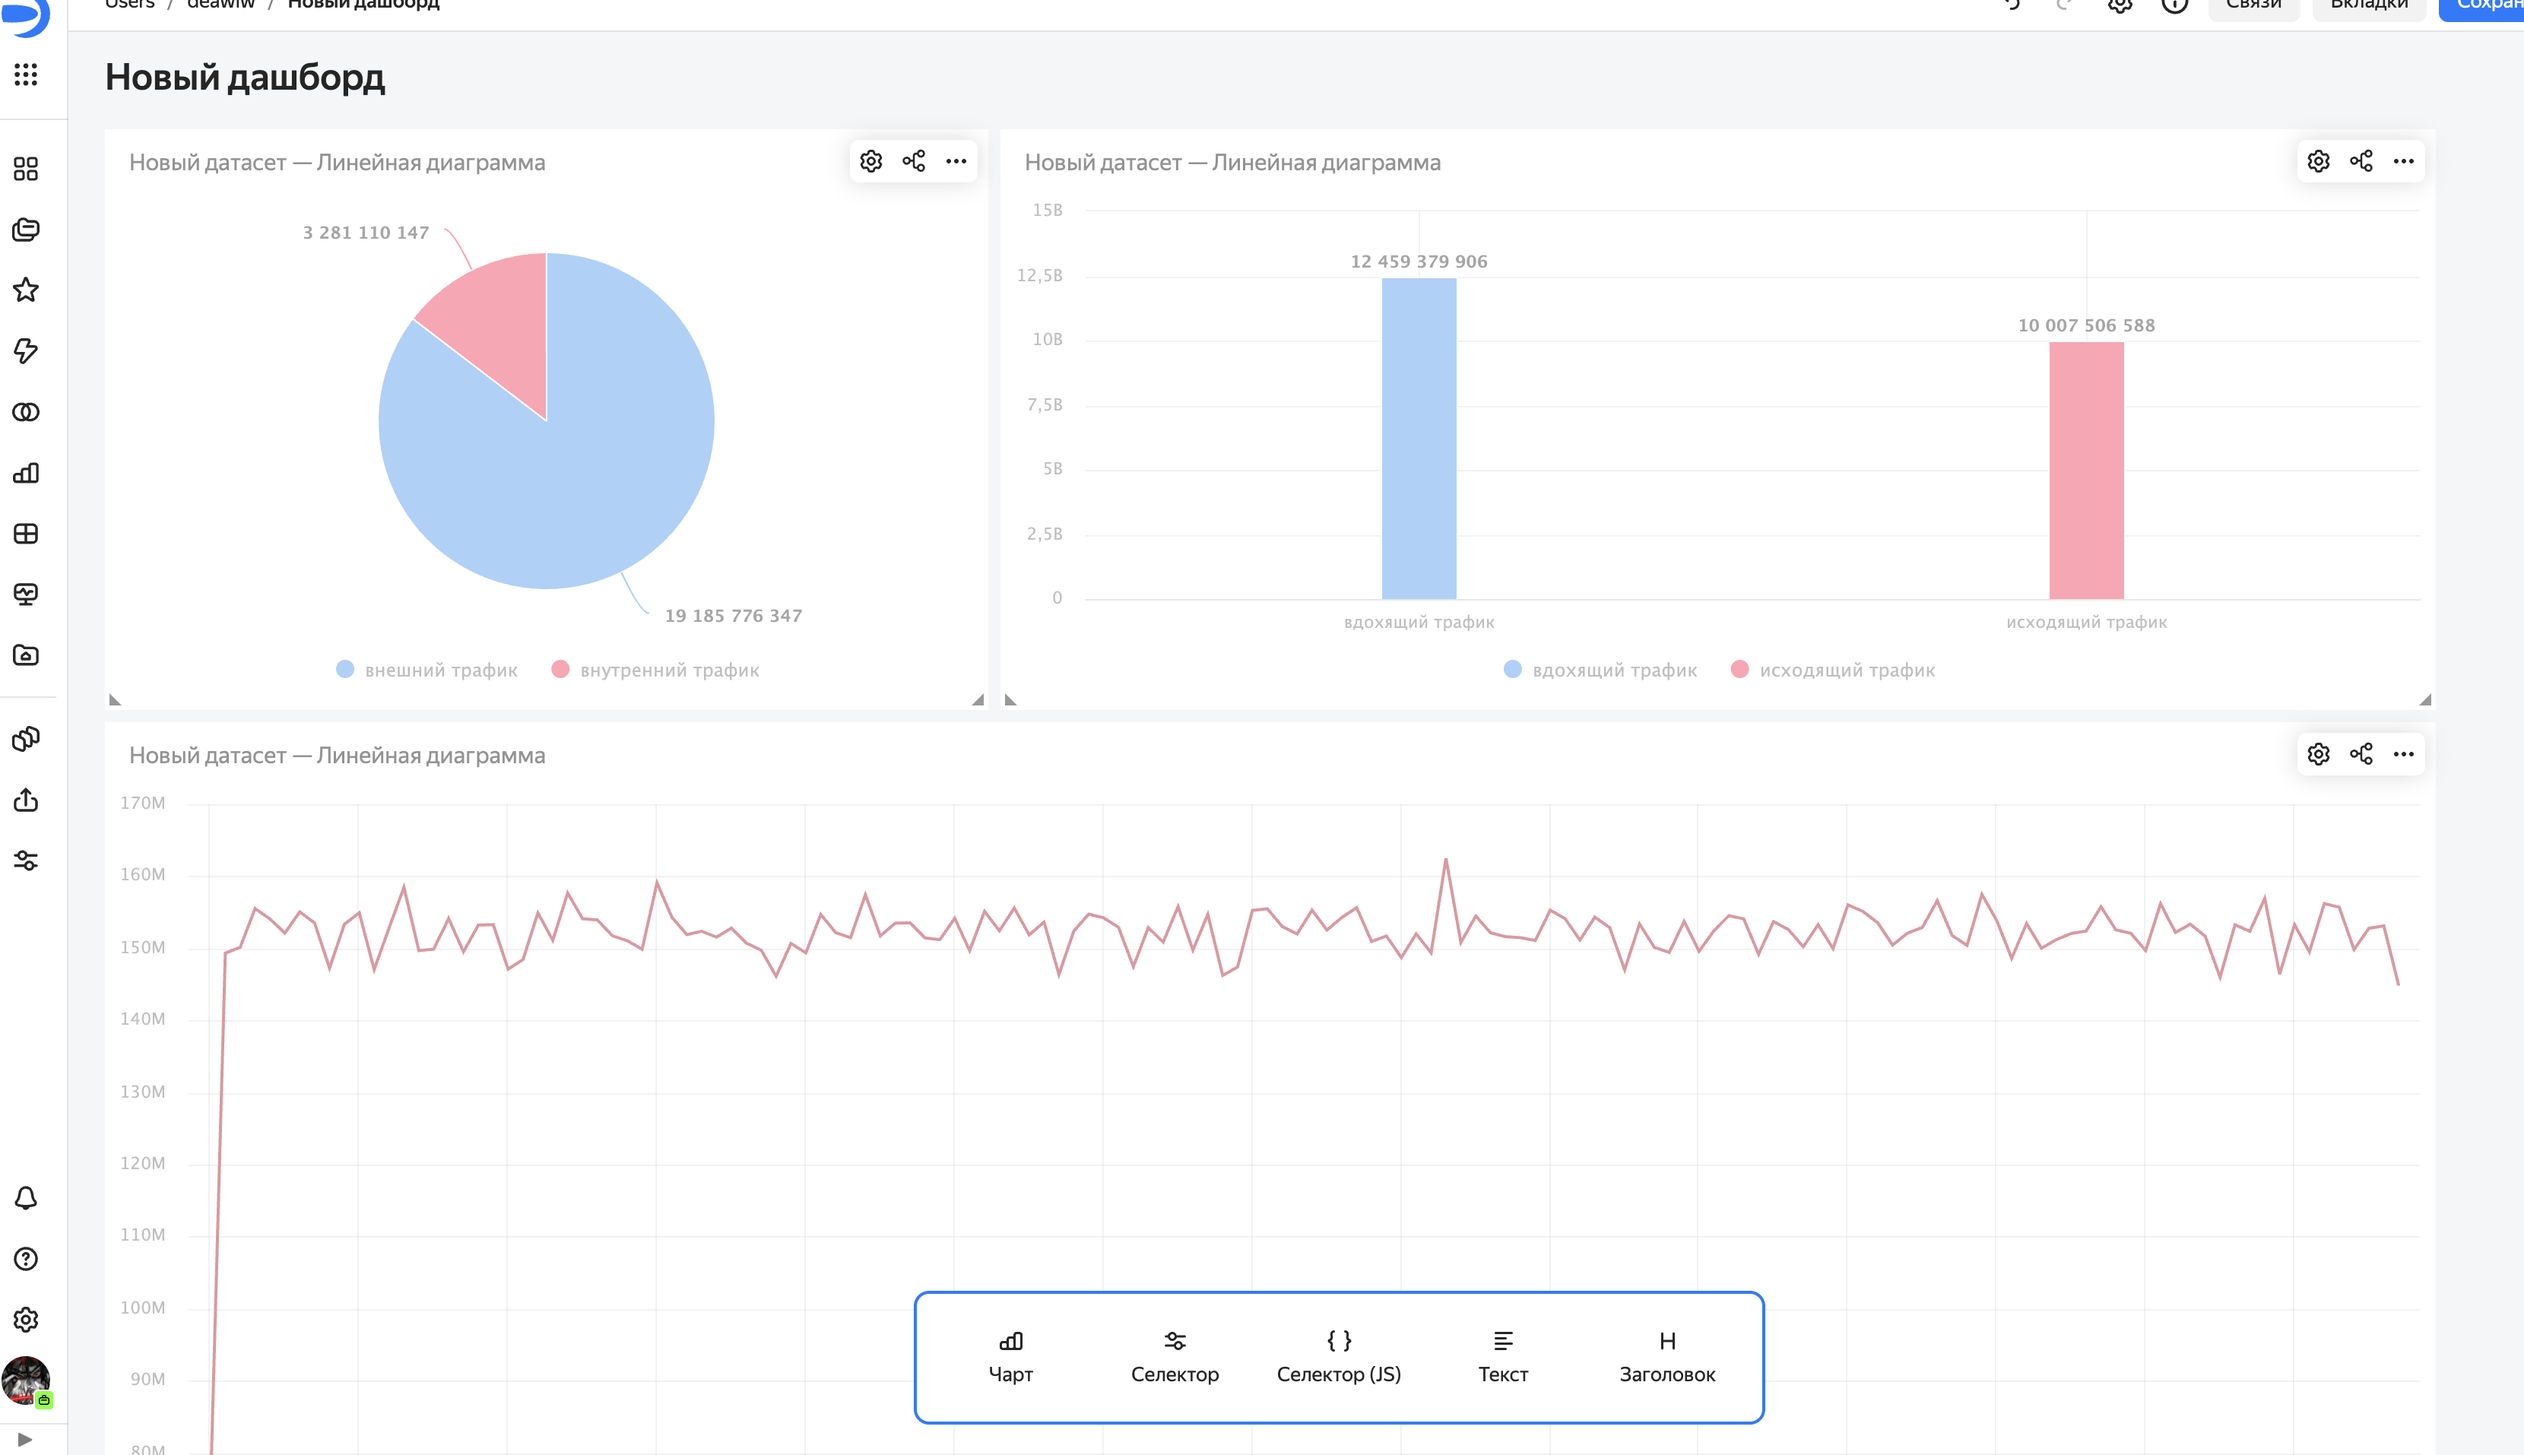
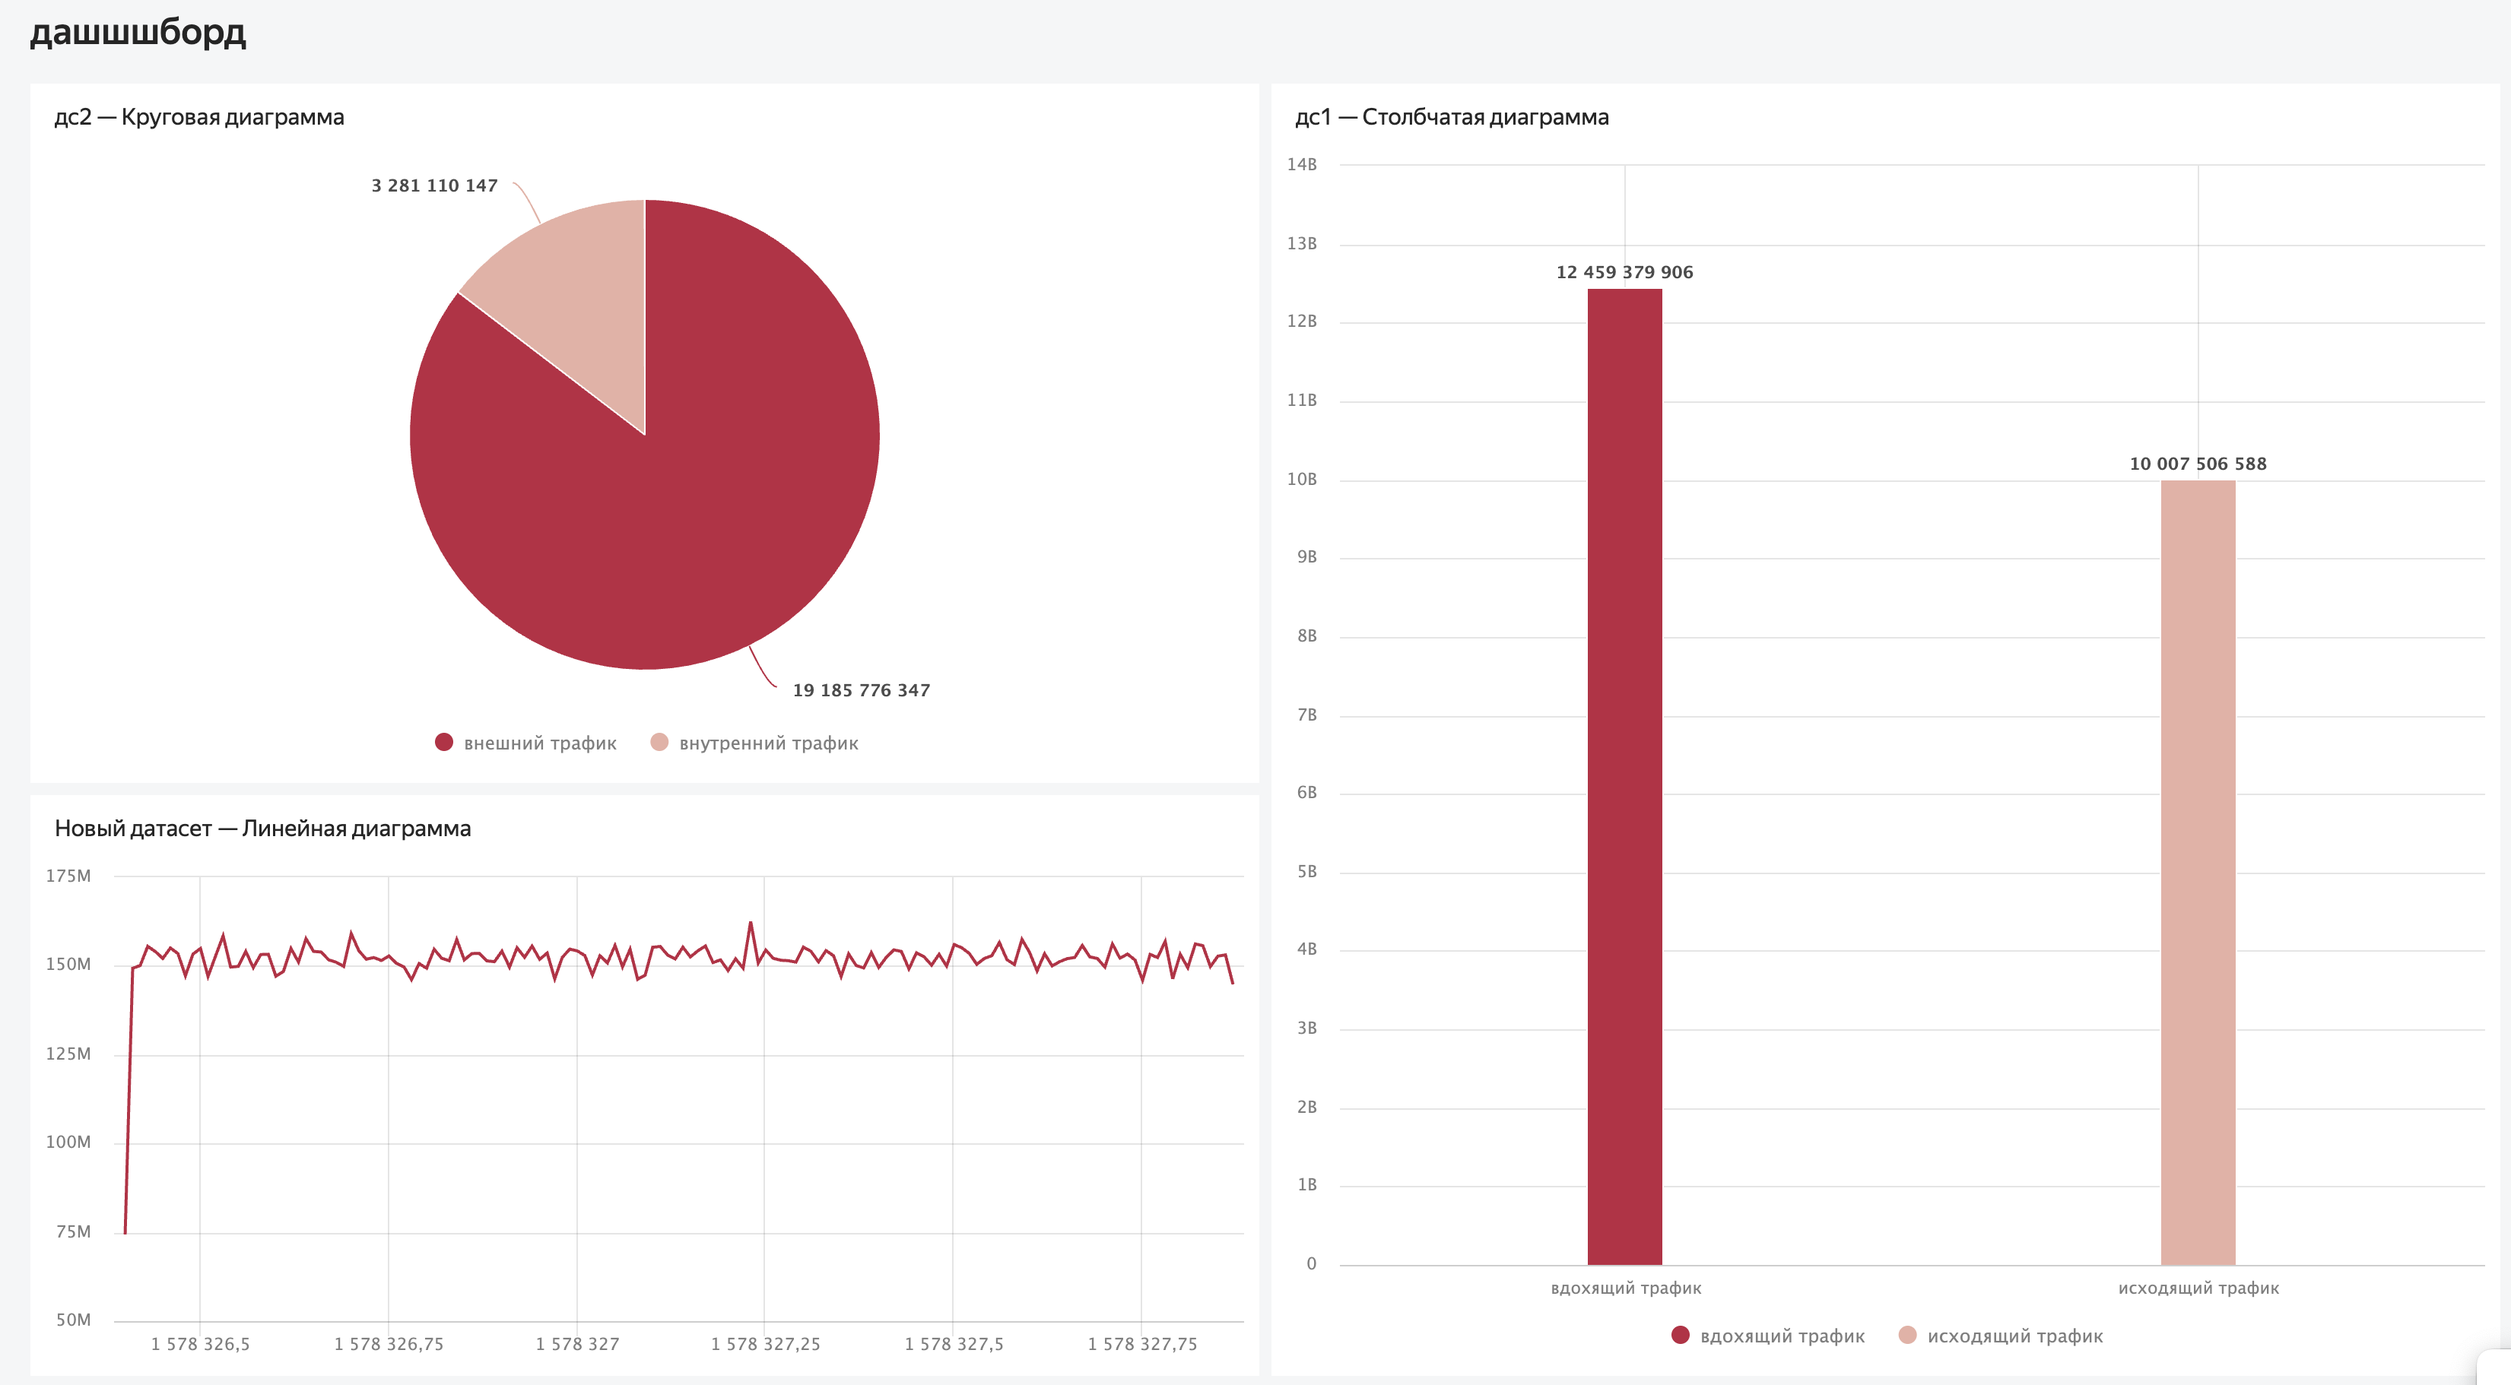
исправление ошибки

diff --git a/lab8/README.md b/lab8/README.md
@@ -41,7 +41,7 @@ deawiw@yandex.ru
 Создание линейного графика ![](screenshots/7.png) ![](screenshots/8.png)
 
 1.  Создание дашборда ![](screenshots/9.png) [Ссылка на итоговый
-    дашборд](https://datalens.ru/7rl5ez1d7zh6r-novyy-dashbord)
+    дашборд](https://datalens.ru/4oi9aq09qt90o-dashshshbord)
 
 ## Оценка результата и вывод
 
